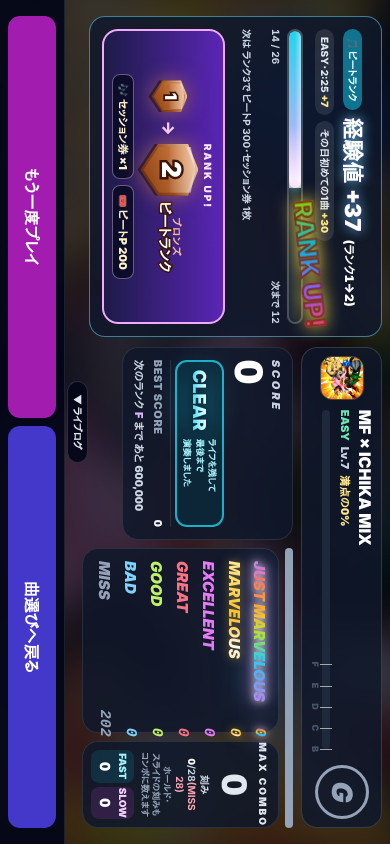
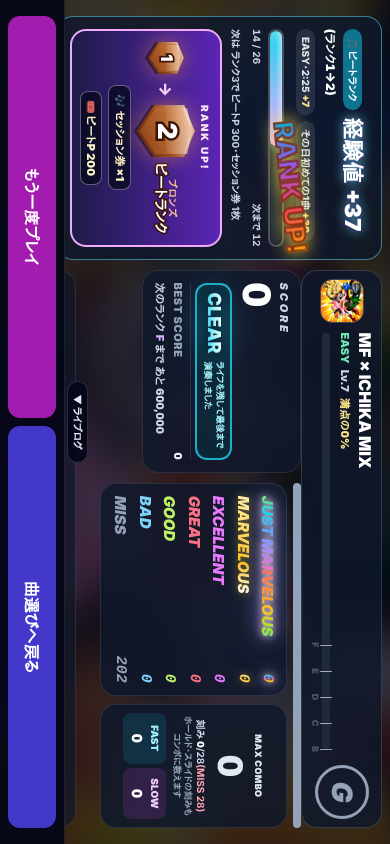
モンヒロビート: 横のリザルトを、左の札は中身の高さ・右は曲の札の下にスコアと判定の表を並べる形に直す
判定の表が740×360で全部見える。「あと」「(ランク1→2)」が言葉の途中で折れない。

Claude-Session: https://claude.ai/code/session_0113GBaBdfST71BQ2tkzG2Hp

diff --git a/monster-hero/index.html b/monster-hero/index.html
@@ -102,7 +102,7 @@ var GAME_BUILD = '95f0f215293d';
 window.__mhGameBuild = GAME_BUILD;
 // 画面に出す版の日時(BUILD_DATE)。本体の中に書くと、ビルドのたびに本体の中身(と GAME_BUILD)が変わり、
 // 事前ダウンロードにためた本体が使えなくなるので、ここから渡す。tools/stamp-version.js が version.json と同じ値を打つ
-window.__mhBuildDate = '2026-11-20 20:57';
+window.__mhBuildDate = '2026-11-20 21:58';
 // 起動でいちばん大きいのは本体JS(約2.7MB)。いちばん後ろで読むため、そこへ来ると
 // ゲージが止まって見えていた。先に取りはじめて、受け取ったバイト数をそのまま出す。
 // ここで取ったものはブラウザのキャッシュに載るので、下の <script> は取り直さない
@@ -559,18 +559,33 @@ window.__mhBoot.prefetch('game-system.compiled.js', 'game-system.compiled.js?v='
   [data-rhythm-multi-chat-layer][data-kb-small="1"] [data-rhythm-multi-chat-mode] { display: none; }
   [data-rhythm-multi-chat-layer][data-kb="1"] [data-rhythm-multi-chat-stamps] { max-height: 5rem; }
   /* リザルト(横・背が低い画面)。経験値の棒とランクアップの窓(約280px)が最初の画面を埋めて、曲名・点数・判定の数が下へ送らないと見えなかった
-     (2026-11-20 点検 V3)。左の列に経験値の棒・ランクアップの窓、右の列に曲名・点数・判定の数を置く。縦・背の高い画面・PCは今までどおり */
+     (2026-11-20 点検 V3)。左の列に経験値の棒・ランクアップの窓、右の列に曲名・点数・判定の数を置く。縦・背の高い画面・PCは今までどおり。
+     幅680px以上では、左の列は中身の高さのまま、右は 曲の札(上)→ スコア | 判定の表 と並べる(判定の表を最初の画面に収める) */
   @media (orientation: landscape) and (max-height: 520px) {
     [data-rhythm-result-scroll] { container-type: size; display: grid; grid-template-columns: minmax(0, .8fr) minmax(0, 1.2fr); column-gap: 10px; align-content: start; padding-top: 8px; padding-bottom: 8px; }
     [data-rhythm-result-scroll] > * { grid-column: 2; min-width: 0; }
     [data-rhythm-result-scroll] > [data-player-rank-gain] { grid-column: 1; grid-row: 1 / span 30; margin: 0 0 8px; align-self: start; min-height: calc(100cqh - 16px); display: flex; flex-direction: column; justify-content: space-between; }
-    /* 左の飾りのジャケットは、曲の札に同じ絵があるので隠し、場所を右の列へ回す。曲の札・点数・判定の表は少し詰める */
     [data-rhythm-result-hero] > div[aria-hidden="true"] { display: none; }
     [data-rhythm-result-hero] { width: 17%; max-width: 150px; }
     [data-rhythm-result-hero]:not(:has([data-rhythm-result-hero-gains])) { display: none; }
     [data-rhythm-result-jacket] { width: 44px; height: 44px; }
     [data-rhythm-result-rank] { width: 54px; height: 54px; font-size: 28px; border-width: 3px; }
     [data-rhythm-result-song] { padding: 6px 8px; }
+    [data-player-rank-gain-add] + span { white-space: nowrap; }
+    [data-rhythm-next-rank] { word-break: keep-all; overflow-wrap: normal; }
+  }
+  @media (orientation: landscape) and (max-height: 520px) and (min-width: 680px) {
+    [data-rhythm-result-scroll] { grid-template-columns: clamp(220px, 30%, 290px) minmax(0, 1fr) minmax(0, 1.7fr); grid-template-rows: auto 1fr; }
+    [data-rhythm-result-scroll] > * { grid-column: 2 / -1; }
+    [data-rhythm-result-scroll] > [data-player-rank-gain] { grid-column: 1; grid-row: 1 / span 2; margin: 0; min-height: auto; display: block; }
+    [data-rhythm-result-scroll] > [data-rhythm-result-summary], [data-rhythm-result-scroll] [data-rhythm-result-summary-main] { display: contents; }
+    [data-rhythm-result-scroll] [data-rhythm-result-song] { grid-column: 2 / -1; grid-row: 1; align-self: start; margin: 0; }
+    [data-rhythm-result-scroll] [data-rhythm-result-play-mode] { grid-column: 2 / -1; grid-row: auto; }
+    [data-rhythm-result-scroll] [data-rhythm-result-score-card] { grid-column: 2; grid-row: 2; margin: 0; align-self: start; }
+    [data-rhythm-result-scroll] [data-rhythm-result-summary-judgments] { grid-column: 3; grid-row: 2; margin: 0; align-self: start; }
+    [data-rhythm-result-scroll]     [data-rhythm-result-scroll] [data-rhythm-result-judgment-table] { font-size: 13px; line-height: 1.1; }
+    [data-rhythm-result-scroll] [data-rhythm-result-combo] { width: 36%; }
+    [data-rhythm-result-scroll] [data-rhythm-result-combo] > small:first-child { letter-spacing: .04em; font-size: 9px; }
   }
   @media (orientation: landscape) and (max-height: 380px) {
     [data-rhythm-result-scroll] { padding-top: 4px; padding-bottom: 4px; }
@@ -588,6 +603,21 @@ window.__mhBoot.prefetch('game-system.compiled.js', 'game-system.compiled.js?v='
   [data-mh-view-rotation="true"] [data-rhythm-result-jacket] { width: 44px; height: 44px; }
   [data-mh-view-rotation="true"] [data-rhythm-result-rank] { width: 54px; height: 54px; font-size: 28px; border-width: 3px; }
   [data-mh-view-rotation="true"] [data-rhythm-result-song] { padding: 6px 8px; }
+  [data-mh-view-rotation="true"] [data-player-rank-gain-add] + span { white-space: nowrap; }
+  [data-mh-view-rotation="true"] [data-rhythm-next-rank] { word-break: keep-all; overflow-wrap: normal; }
+  @media (min-height: 680px) {
+    [data-mh-view-rotation="true"] [data-rhythm-result-scroll] { grid-template-columns: clamp(220px, 30%, 290px) minmax(0, 1fr) minmax(0, 1.7fr); grid-template-rows: auto 1fr; }
+    [data-mh-view-rotation="true"] [data-rhythm-result-scroll] > * { grid-column: 2 / -1; }
+    [data-mh-view-rotation="true"] [data-rhythm-result-scroll] > [data-player-rank-gain] { grid-column: 1; grid-row: 1 / span 2; margin: 0; min-height: auto; display: block; }
+    [data-mh-view-rotation="true"] [data-rhythm-result-scroll] > [data-rhythm-result-summary], [data-mh-view-rotation="true"] [data-rhythm-result-scroll] [data-rhythm-result-summary-main] { display: contents; }
+    [data-mh-view-rotation="true"] [data-rhythm-result-scroll] [data-rhythm-result-song] { grid-column: 2 / -1; grid-row: 1; align-self: start; margin: 0; }
+    [data-mh-view-rotation="true"] [data-rhythm-result-scroll] [data-rhythm-result-play-mode] { grid-column: 2 / -1; grid-row: auto; }
+    [data-mh-view-rotation="true"] [data-rhythm-result-scroll] [data-rhythm-result-score-card] { grid-column: 2; grid-row: 2; margin: 0; align-self: start; }
+    [data-mh-view-rotation="true"] [data-rhythm-result-scroll] [data-rhythm-result-summary-judgments] { grid-column: 3; grid-row: 2; margin: 0; align-self: start; }
+    [data-mh-view-rotation="true"] [data-rhythm-result-scroll]     [data-mh-view-rotation="true"] [data-rhythm-result-scroll] [data-rhythm-result-judgment-table] { font-size: 13px; line-height: 1.1; }
+    [data-mh-view-rotation="true"] [data-rhythm-result-scroll] [data-rhythm-result-combo] { width: 36%; }
+    [data-mh-view-rotation="true"] [data-rhythm-result-scroll] [data-rhythm-result-combo] > small:first-child { letter-spacing: .04em; font-size: 9px; }
+  }
   /* ランキングの「イベント」(横・背が低い画面)。上の見出し・4つのタブ・今回/前回・イベント名・詳細・部門が画面の大半を使い、順位が最初の画面に出ず、
      部門(曲)のボタンが下のメニューに半分隠れていた(2026-11-20 点検 V4)。今回/前回・イベント名・詳細を1行に並べ、ボタンの高さを詰める。縦・PCは今までどおり */
   @media (orientation: landscape) and (max-height: 520px) {

diff --git a/tools/ui/rhythm-result-landscape-check.js b/tools/ui/rhythm-result-landscape-check.js
@@ -81,7 +81,7 @@ const serve = () => new Promise((r) => { const s = http.createServer((req, res) 
           // ランクアップの大きな演出(押すと閉じる)を閉じる
           for (let k = 0; k < 4; k++) { await page.mouse.click(Math.round(W / 2), Math.round(H / 3)); await page.waitForTimeout(500); }
           await page.evaluate(() => { const b = document.querySelector('[data-rhythm-result-scroll]'); if (b) b.scrollTop = 0; });
-          await page.waitForTimeout(500);
+          await page.waitForTimeout(2500);
           if (process.env.SHOT) await page.screenshot({ path: `${process.env.SHOT}-${W}x${H}.png` });
           const m = await page.evaluate(() => {
             const box = document.querySelector('[data-rhythm-result-scroll]'); if (!box) return { none: true };
